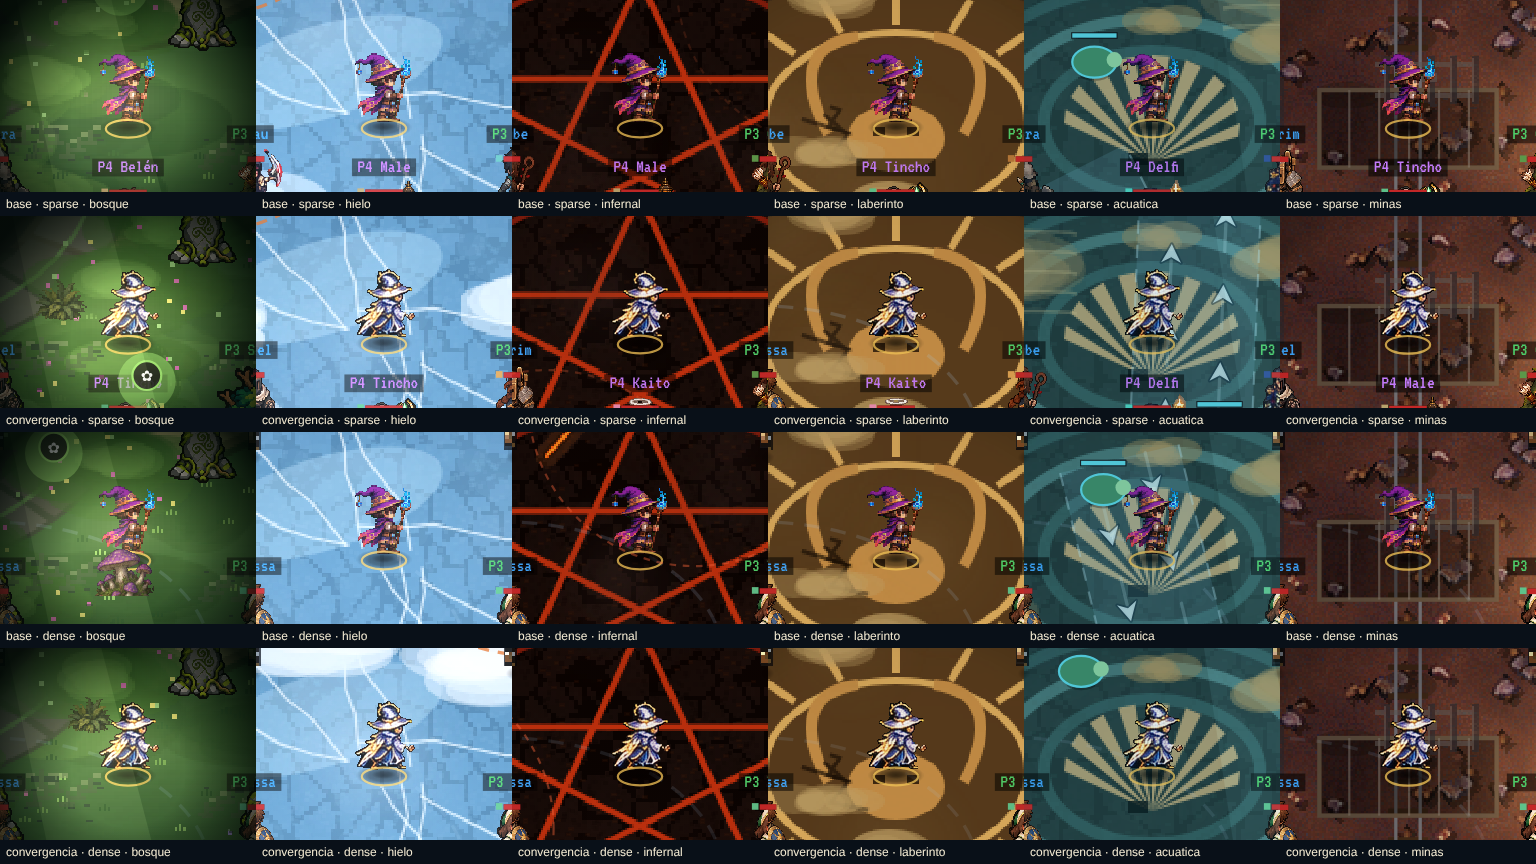
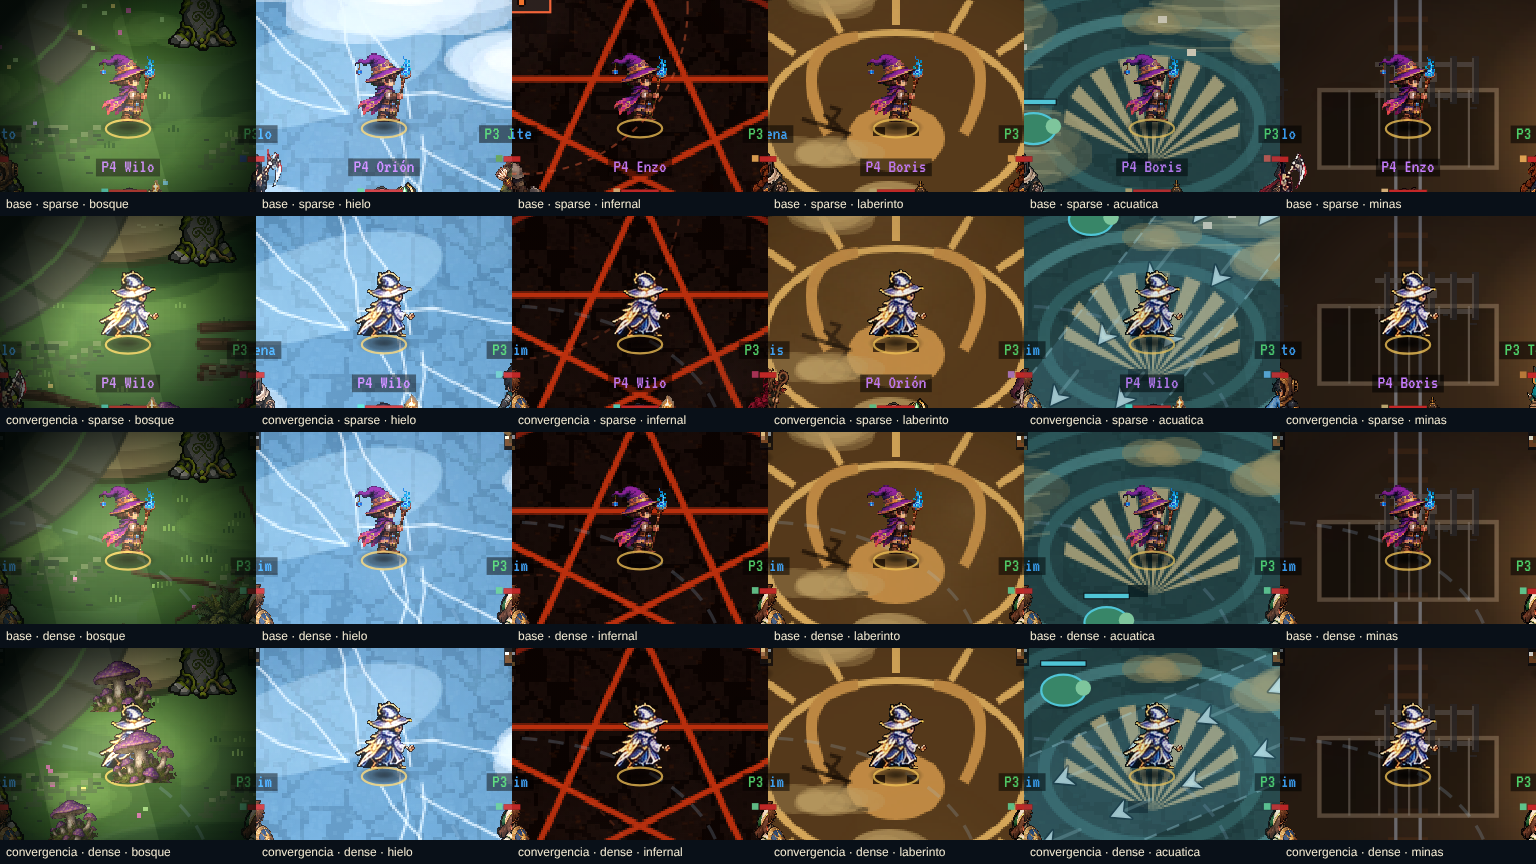
art(myla): atlas maestro de #259 fiel al Códice, hash actualizado con revisión independiente y nueva prueba de fidelidad
Claude-Session: https://claude.ai/code/session_01LxJEcjGHLngn4o4wPZAHs2

diff --git a/tools/art/check-myla-death.js b/tools/art/check-myla-death.js
@@ -49,7 +49,7 @@ const ROOT=path.resolve(__dirname,'../..'),OUT=path.join(ROOT,'docs/art-gate/myl
   const preview=await pages[0].evaluate(async images=>{const cv=document.createElement('canvas');cv.width=1100;cv.height=260;const g=cv.getContext('2d');g.fillStyle='#141822';g.fillRect(0,0,1100,260);g.font='17px sans-serif';g.fillStyle='#f0e5cd';g.fillText('Myla · referencia original y cuatro cuadros de caída',18,25);for(let i=0;i<images.length;i++){const im=new Image();im.src=images[i];await im.decode();g.drawImage(im,i*220,20);g.fillText(i?'Caída '+i:'Original',i*220+15,248);}return cv.toDataURL();},[r.reference,...r.poses]);
   fs.mkdirSync(OUT,{recursive:true});fs.writeFileSync(path.join(OUT,'runtime-comparison.png'),Buffer.from(preview.split(',')[1],'base64'));
   report.masterAtlasSha256=crypto.createHash('sha256').update(fs.readFileSync(path.join(ROOT,'assets/sprites/champions/myla/atlas.png'))).digest('hex');
[2 lines of base64/hex data omitted]
   report.berrincheSha256=crypto.createHash('sha256').update(fs.readFileSync(path.join(ROOT,'assets/sprites/champions/myla/berrinche.png'))).digest('hex');
[1 lines of base64/hex data omitted]
   report.status=report.errors.length||report.checks.some(c=>!c.ok)?'FAIL':'PASS';fs.writeFileSync(path.join(OUT,'runtime.json'),JSON.stringify(report,null,2)+'\n');console.log(JSON.stringify({status:report.status,checks:report.checks.length,failed:report.checks.filter(c=>!c.ok),errors:report.errors}));if(report.status!=='PASS')process.exitCode=1;

diff --git a/tools/art/check-myla-master-fidelity.py b/tools/art/check-myla-master-fidelity.py
@@ -1,0 +1,17 @@
+#!/usr/bin/env python3
+"""Guarda de fidelidad del atlas maestro de Myla (además del hash): 12 cuadros de 96x96 con contenido, base anclada, índices de portadores-meta.js presentes
+y paleta dominante rosa/crema/castaño como el Códice. Uso: python3 tools/art/check-myla-master-fidelity.py"""
+import os,sys,numpy as np
+from PIL import Image
+R=os.path.abspath(os.path.join(os.path.dirname(__file__),'../..'))+'/'
+a=Image.open(R+'assets/sprites/champions/myla/atlas.png').convert('RGBA'); fails=[]
+if a.size!=(384,288): fails.append(f'tamaño {a.size}')
+for i in range(12):
+    c=a.crop(((i%4)*96,(i//4)*96,(i%4)*96+96,(i//4)*96+96)); bb=c.getchannel('A').point(lambda v:255 if v>40 else 0).getbbox()
+    if not bb or (bb[2]-bb[0])*(bb[3]-bb[1])<600: fails.append(f'cuadro {i} vacío'); continue
+    if bb[3]<80 or bb[3]>94: fails.append(f'cuadro {i} base y={bb[3]} fuera de 80..94')
+d=np.asarray(a); m=d[:,:,3]>40; px=d[m][:,:3].astype(int)
+pink=((px[:,0]>200)&(px[:,1]<190)&(px[:,2]>120)&(px[:,0]-px[:,1]>40)).mean(); brown=((px[:,0]>60)&(px[:,0]<190)&(px[:,0]-px[:,2]>35)&(px[:,1]<150)).mean()
+if pink<0.05: fails.append(f'poco rosa {pink:.2f}')
+if brown<0.15: fails.append(f'poco castaño {brown:.2f}')
+print('FAIL' if fails else 'PASS','myla master fidelidad',fails or f'rosa={pink:.2f} castaño={brown:.2f}'); sys.exit(1 if fails else 0)

diff --git a/docs/beta-release/RESULTADOS_PR.md b/docs/beta-release/RESULTADOS_PR.md
@@ -29,3 +29,5 @@
 | Nigromante — vista previa del Códice | La entrada de «Plaga» en `js/data/codex-content.js` ya no referencia `vfx:"nigroPlagueBurst"` (imagen pintada), así que la vista previa no muestra el viejo estallido borroso; usa la zona genérica de color. `test-beta-scope` y `test-three-ui-contracts` PASS | CANDIDATO | — | — | — |
 | #241 — **Aelith y Morveth** (intento 2 de 3, **ACEPTADO como candidato**; falta revisión independiente y CI remoto) | Reparador → evaluador | #241 head 5069d022 + rama de trabajo | **Cambio de enfoque (sin tocar ningún gate):** la croma de paleta ahora registra ADEMÁS un pack recoloreado del cuerpo del Códice (`d.packs['codex_'+champ]`, `js/champions/expedition/cosmetics.js`) y `codexChampionPack` (`js/rendering/codex-champions.js`) lo devuelve cuando la skin activa es una croma de paleta (no autoral); el pack clásico se conserva, así el contrato `REGISTRO.grilla_segun_contrato_propio_o_croma` de `t_cromas` queda intacto. **Visual:** `evidence/guardianes/aelith_morveth_antes_despues.png` (antes / después / croma). **Pruebas:** aislados y combinados `t_cromas`, `browser-collection`, `coliseum/flow`, `lanes/test-sides`, `roster-loading-test` (43/161/3384) PASS; `check-codex-body aelith|morveth` (14 estados, 36 cuadros, vivo y caído) PASS | Nota: corridas directas sin servidor estático fallan por entorno, no por código | commit en la rama | revertir el commit | Con esto los 4 cuerpos de #241 (Guerrero, Tanque, Aelith, Morveth) + Mago (#270) están en la rama. Pendiente de #241: regenerar `visual-packages/manifest.v1.json` si aplica |
 | #259 — extracción de **atlas de Saelis, Aurelia, Maura y Ynara** (+ `ynara-meta.js` con `death_down` propio, `maura/croma-preview.png`) | **BLOQUE ACEPTADO (candidato; falta revisión independiente y CI remoto)** | #259 head ed7f6120 + rama de trabajo | **Visual:** `evidence/guardianes/pr259_cuatro_antes_despues.png` (Códice | antes | después): Saelis gana alas, báculo con pluma y túnica azul; Ynara, báculo con orbe y atuendo marfil; Aurelia, cristales dorados y túnica; Maura, más fiel. **Pruebas:** `t_cromas`, `roster-loading-test` (43/161/3384), `browser-collection`, `coliseum/flow`, `lanes/test-sides` PASS | **Myla EXCLUIDA:** su atlas cambia en #259 y `tools/art/check-myla-death.js` fija el hash del atlas maestro aprobado (`master atlas bytes unchanged` FAIL); cambiarlo implicaría modificar un gate → se deja el atlas aprobado hasta que haya decisión independiente. Renko/Profeta/resto de #259 sin extraer todavía | commit en la rama | revertir el commit | Primera pasada por diff de atlas; los 401 archivos restantes de #259 siguen en EXTRAER_COMPONENTES |
+| #259 — **Myla** (atlas maestro, decisión con revisor independiente) | **ACEPTADO como candidato**, con las 4 condiciones del revisor | #259 + rama | **Decisión:** el atlas anterior mostraba una cara fotorrealista que no coincide con el Códice; el de #259 sí (vestido rosa/crema con flor, alforja, bastón-cuchara). El revisor independiente (agente separado, no el productor) comprobó que el hash de `check-myla-death` solo cubría «no tocar el master» (el gate aprobó la CAÍDA, no el arte del master), misma grilla 384×288 y todos los índices de `portadores-meta.js`. **Cambios:** constante `masterAtlasSha256` → `07af3faa…30bf8` y check renombrado; nueva `tools/art/check-myla-master-fidelity.py` (12 cuadros con contenido, base anclada, paleta rosa/castaño; umbral de rosa calibrado sobre el arte aprobado: 0,07 medido, mínimo 0,05); `runtime.json` regenerado. **Pruebas:** `check-myla-death` 139/139 PASS, `t_cromas`, `roster-loading-test`, `browser-collection`, `coliseum/flow` PASS | Pendiente (no bloqueante): revisar visualmente la croma `myla_arandanos` (archivos propios, estilo viejo) y la caída contra el nuevo master; el cuadro de lanzamiento ya no lleva chispas (las pone el VFX) | commit | revertir el commit | Revisión independiente: agente a95c5a343f4a2646e |
+| PR con cuerpos de campeones — **barrido completo** | Resultado | #232/#256/#257 = mismos cuerpos de #241 (ya integrados); #268 = Mago (ya integrado vía #270); #267 = atlas 448×1120 de Aelith con fila extra pero SIN meta ni integración (no integrable aún); **#90 = 3 campeones NUEVOS (Ilsa/Vorn/Kora)**: su alta exige kits, gates de balance/habilidades y fábrica (AGENTS.md) → fuera del alcance de la beta, candidatos posteriores; #239/#253/#252/#254/#255/#249/#250/#231/#246/#92 no cambian atlas de campeones | — | — | — | — |
